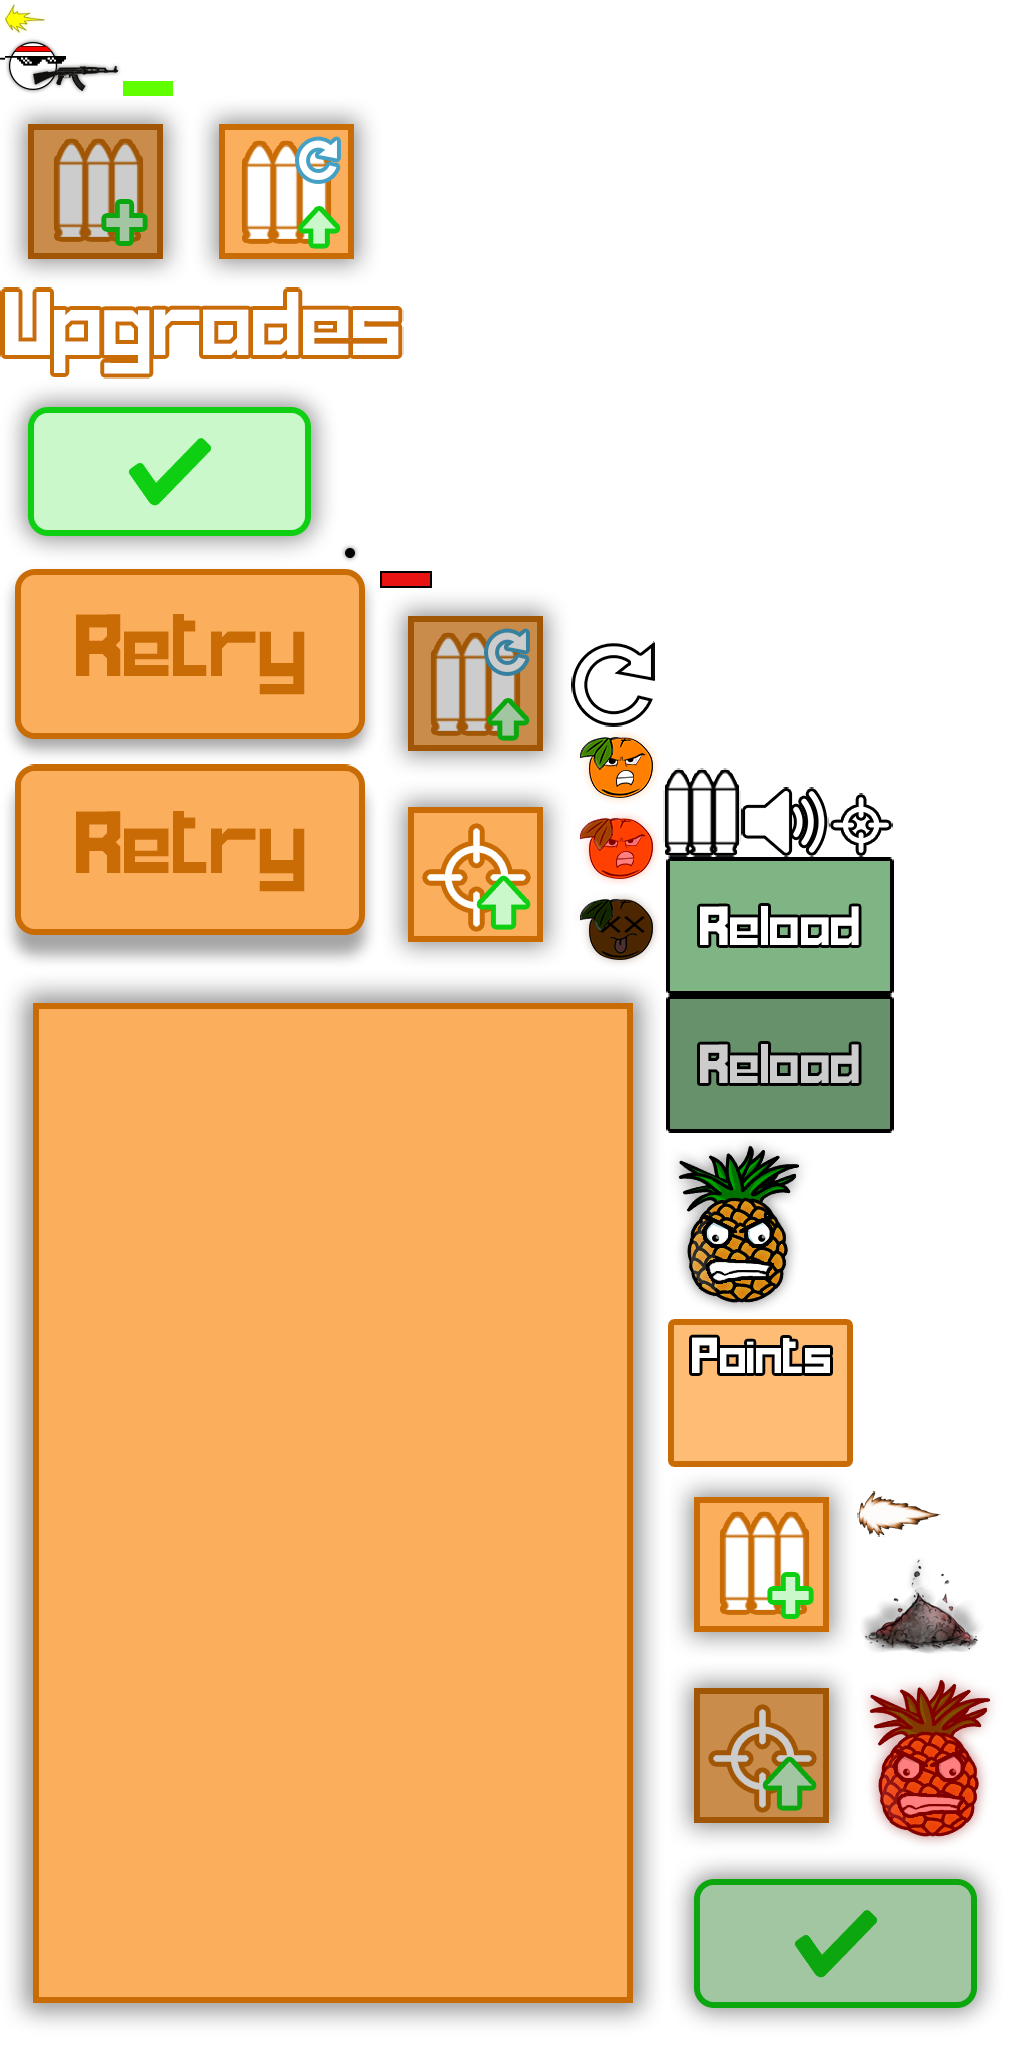
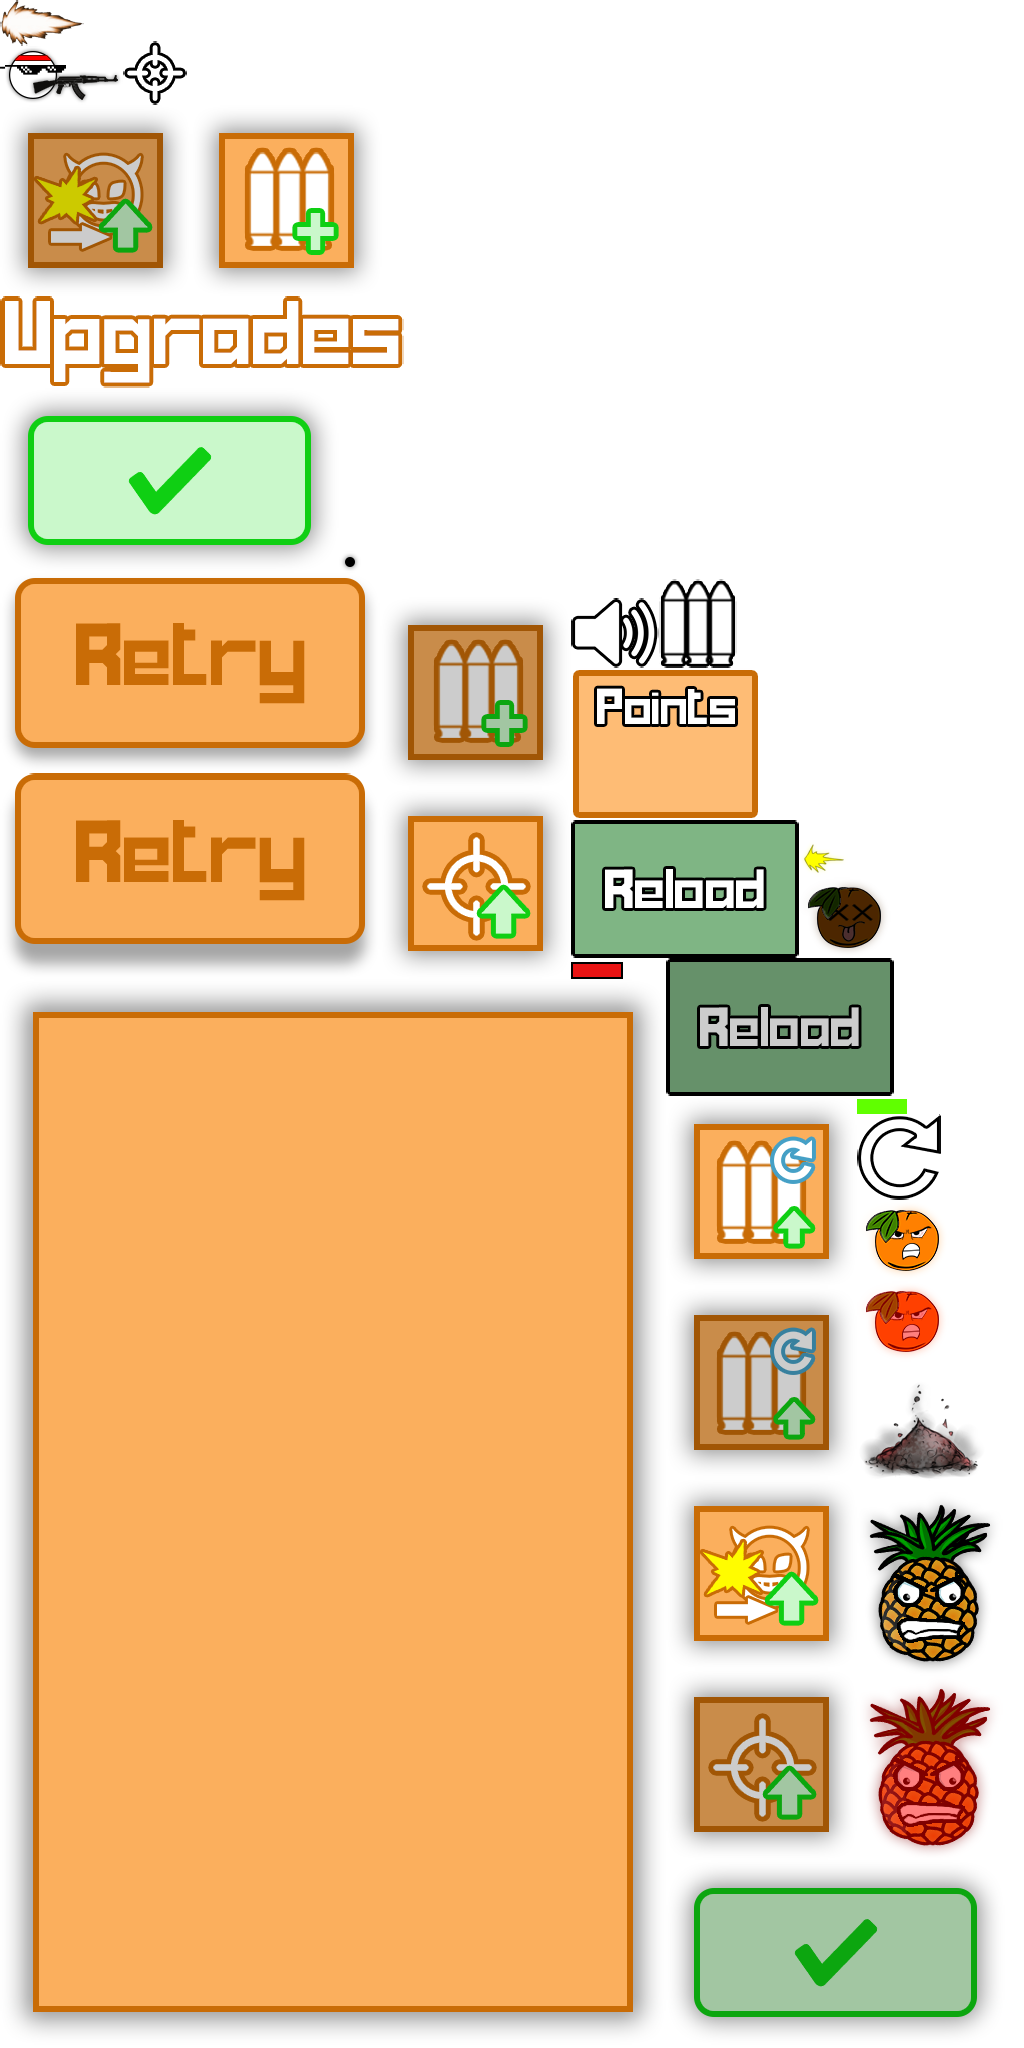
no message

Changed region(s): [[0.0, 0.0, 0.9688, 1.0], [0.0312, 0.9688, 0.625, 1.0]]

diff --git a/core/src/com/nahroto/fruitdestroyer/huds/BuyHud.java b/core/src/com/nahroto/fruitdestroyer/huds/BuyHud.java
@@ -29,7 +29,7 @@ public class BuyHud extends Hud
     public static final int POINTS_REWARD = 3;
 
     private static final float EASE_TIME = 0.7f;
-    private static final int UPGRADEBUTTONS_Y = 750;
+    private static final int UPGRADEBUTTONS_Y = 800;
 
     private Integer pointsValue;
 
@@ -45,6 +45,8 @@ public class BuyHud extends Hud
     private ImageButton extraAmmoButton;
     private ImageButton accuracyButton;
     private ImageButton reloadSpeedButton;
+    private ImageButton knockbackButton;
+
     private ImageButton doneButton;
 
     private Runnable toggleBuying;
@@ -141,11 +143,15 @@ public class BuyHud extends Hud
         extraAmmoButton = new ImageButton(new TextureRegionDrawable(gameScreenAtlas.findRegion("moreAmmoUpgrade")), new TextureRegionDrawable(gameScreenAtlas.findRegion("moreAmmoUpgrade-down")));
         accuracyButton = new ImageButton(new TextureRegionDrawable(gameScreenAtlas.findRegion("accuracyUpgrade")), new TextureRegionDrawable(gameScreenAtlas.findRegion("accuracyUpgrade-down")));
         reloadSpeedButton = new ImageButton(new TextureRegionDrawable(gameScreenAtlas.findRegion("reloadUpgrade")), new TextureRegionDrawable(gameScreenAtlas.findRegion("reloadUpgrade-down")));
+        knockbackButton = new ImageButton(new TextureRegionDrawable(gameScreenAtlas.findRegion("knockbackUpgrade")), new TextureRegionDrawable(gameScreenAtlas.findRegion("knockbackUpgrade-down")));
+
         doneButton = new ImageButton(new TextureRegionDrawable(gameScreenAtlas.findRegion("upgradeDone")), new TextureRegionDrawable(gameScreenAtlas.findRegion("upgradeDone-down")));
 
-        extraAmmoButton.setPosition(overlay.getX(Align.center)  - accuracyButton.getWidth(), overlay.getY() + UPGRADEBUTTONS_Y, Align.center);
+        extraAmmoButton.setPosition(overlay.getX(Align.center)  - accuracyButton.getWidth(), overlay.getY() + UPGRADEBUTTONS_Y - 100, Align.center);
         accuracyButton.setPosition(overlay.getX(Align.center), overlay.getY() + UPGRADEBUTTONS_Y, Align.center);
-        reloadSpeedButton.setPosition(overlay.getX(Align.center)  + accuracyButton.getWidth(), overlay.getY() + UPGRADEBUTTONS_Y, Align.center);
+        reloadSpeedButton.setPosition(overlay.getX(Align.center)  + accuracyButton.getWidth(), overlay.getY() + UPGRADEBUTTONS_Y - 100, Align.center);
+        knockbackButton.setPosition(accuracyButton.getX(), overlay.getY() + UPGRADEBUTTONS_Y - 300);
+
         doneButton.setPosition(overlay.getX(Align.center) + 110, pointsOverlay.getY(Align.center), Align.center);
 
         doneButton.addListener(new ClickListener()
@@ -167,6 +173,7 @@ public class BuyHud extends Hud
         actors.add(extraAmmoButton);
         actors.add(accuracyButton);
         actors.add(reloadSpeedButton);
+        actors.add(knockbackButton);
         actors.add(doneButton);
 
         addAllActorsToStage();
@@ -185,9 +192,10 @@ public class BuyHud extends Hud
         pointsOverlay.setPosition(overlay.getX() + 70, overlay.getY() + 70);
         pointsLabel.setPosition(pointsOverlay.getX(Align.center), pointsOverlay.getY(Align.center) - 25, Align.center);
         pointsLabel.setText(pointsValue.toString());
-        extraAmmoButton.setPosition(overlay.getX(Align.center)  - accuracyButton.getWidth(), overlay.getY() + UPGRADEBUTTONS_Y, Align.center);
+        extraAmmoButton.setPosition(overlay.getX(Align.center)  - accuracyButton.getWidth(), overlay.getY() + UPGRADEBUTTONS_Y - 100, Align.center);
         accuracyButton.setPosition(overlay.getX(Align.center), overlay.getY() + UPGRADEBUTTONS_Y, Align.center);
-        reloadSpeedButton.setPosition(overlay.getX(Align.center) + accuracyButton.getWidth(), overlay.getY() + UPGRADEBUTTONS_Y, Align.center);
+        reloadSpeedButton.setPosition(overlay.getX(Align.center)  + accuracyButton.getWidth(), overlay.getY() + UPGRADEBUTTONS_Y - 100, Align.center);
+        knockbackButton.setPosition(accuracyButton.getX(), overlay.getY() + UPGRADEBUTTONS_Y - 300);
         doneButton.setPosition(overlay.getX(Align.center) + 110, pointsOverlay.getY(Align.center), Align.center);
     }
 

diff --git a/core/src/com/nahroto/fruitdestroyer/entities/enemies/Enemy.java b/core/src/com/nahroto/fruitdestroyer/entities/enemies/Enemy.java
@@ -29,6 +29,7 @@ public class Enemy
     public boolean isUsed;
 
     protected long currentTime;
+    protected long lastTimeHit;
 
     protected int maxHealth;
     protected int health;
@@ -42,8 +43,13 @@ public class Enemy
 
     protected float angle;
 
+    protected float directionX;
+    protected float directionY;
+
     protected Vector2 velocity;
     protected Vector2 position;
+
+    protected Vector2 forwardVelocity;
 
     protected Sprite sprite;
 
@@ -66,6 +72,7 @@ public class Enemy
 
         velocity = new Vector2();
         position = new Vector2();
+        forwardVelocity = new Vector2();
         bounds = new Polygon();
 
         healthBar = new HealthBar(redBar, greenBar);
@@ -95,12 +102,13 @@ public class Enemy
 
         float length = (float) Math.sqrt(deltaX * deltaX + deltaY * deltaY);
 
-        float directionX = deltaX / length;
-        float directionY = deltaY / length;
+        directionX = deltaX / length;
+        directionY = deltaY / length;
 
         int extraVelocity = MathUtils.random(0, 2);
 
-        velocity.set((BASEVELOCITY + (extraVelocity * 10)) * directionX, (BASEVELOCITY + (extraVelocity * 10)) * directionY);
+        forwardVelocity.set((BASEVELOCITY + (extraVelocity * 10)) * directionX, (BASEVELOCITY + (extraVelocity * 10)) * directionY);
+        velocity.set(forwardVelocity);
         velocity.scl(velocityMultiplier);
     }
 
@@ -115,8 +123,17 @@ public class Enemy
         bounds.setRotation(angle);
     }
 
+    public void knockback(float knockbackPower)
+    {
+        lastTimeHit = System.currentTimeMillis();
+        velocity.set(-knockbackPower * directionX, -knockbackPower * directionY);
+    }
+
     public void update(float delta)
     {
+        if (System.currentTimeMillis() - lastTimeHit > 100)
+            velocity.set(forwardVelocity);
+
         applyVelocityToPosition(delta);
         updateBounds();
         if (renderHit && (System.currentTimeMillis() - currentTime > 100))

diff --git a/core/src/com/nahroto/fruitdestroyer/weapons/Weapon.java b/core/src/com/nahroto/fruitdestroyer/weapons/Weapon.java
@@ -6,13 +6,15 @@ public class Weapon
     private int rateOfFire;
     private int magSize;
     private float recoil;
+    private float knockbackPower;
 
-    public Weapon(int damage, int rateOfFire, int magSize, float recoil)
+    public Weapon(int damage, int rateOfFire, int magSize, float recoil, float knockbackPower)
     {
         this.damage = damage;
         this.rateOfFire = rateOfFire;
         this.magSize = magSize;
         this.recoil = recoil;
+        this.knockbackPower = knockbackPower;
     }
 
     public int getDamage()
@@ -33,5 +35,10 @@ public class Weapon
     public float getRecoil()
     {
         return recoil;
+    }
+
+    public float getKnockbackPower()
+    {
+        return knockbackPower;
     }
 }

diff --git a/core/src/com/nahroto/fruitdestroyer/entities/Bullet.java b/core/src/com/nahroto/fruitdestroyer/entities/Bullet.java
@@ -18,6 +18,7 @@ public class Bullet
     private static final int START_ROF = 200;
     private static final int START_MAGSIZE = 20;
     private static final float START_RECOIL = 1f;
+    private static final float START_KNOCKBACKPOWER = 75f;
 
     private Vector2 velocity;
     private Sprite sprite;
@@ -33,7 +34,7 @@ public class Bullet
     {
         this.sprite = sprite;
 
-        weapon = new Weapon(START_DAMAGE, START_ROF, START_MAGSIZE, START_RECOIL);
+        weapon = new Weapon(START_DAMAGE, START_ROF, START_MAGSIZE, START_RECOIL, START_KNOCKBACKPOWER);
 
         velocity = new Vector2();
 

diff --git a/core/src/com/nahroto/fruitdestroyer/helpers/CollisionHandler.java b/core/src/com/nahroto/fruitdestroyer/helpers/CollisionHandler.java
@@ -46,6 +46,9 @@ public class CollisionHandler
                     currentEnemies.get(i).setHitTexture();
                     currentEnemies.get(i).reduceHealth(Bullet.getWeapon().getDamage());
 
+                    // KNOCKBACK ENEMY
+                    currentEnemies.get(i).knockback(Bullet.getWeapon().getKnockbackPower());
+
                     // REMOVE THE HIT BULLET
                     currentBullets.get(j).isUsed = false;
                     currentBullets.get(j).isOutOfScreen = false;

diff --git a/core/src/com/nahroto/fruitdestroyer/WaveGenerator.java b/core/src/com/nahroto/fruitdestroyer/WaveGenerator.java
@@ -9,7 +9,7 @@ import com.nahroto.fruitdestroyer.entities.enemies.Orange;
 
 public class WaveGenerator
 {
-    public static final int BUY_WAVE = 3;
+    public static final int BUY_WAVE = 1;
 
     private static final int ANANAS_MINIMUM_WAVE = 1;
     private static final float ORANGE_MULTIPLIER = 1.2f;
